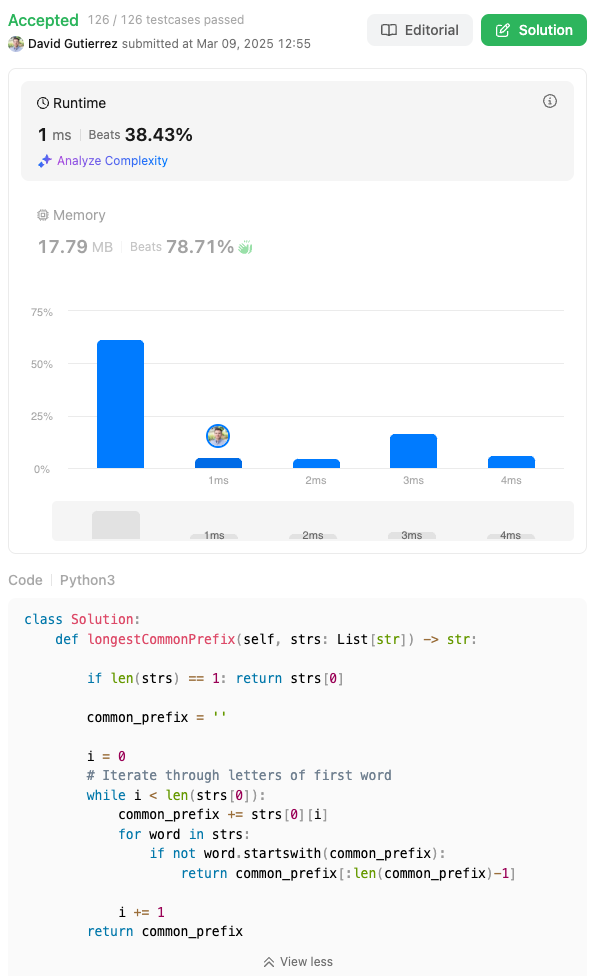
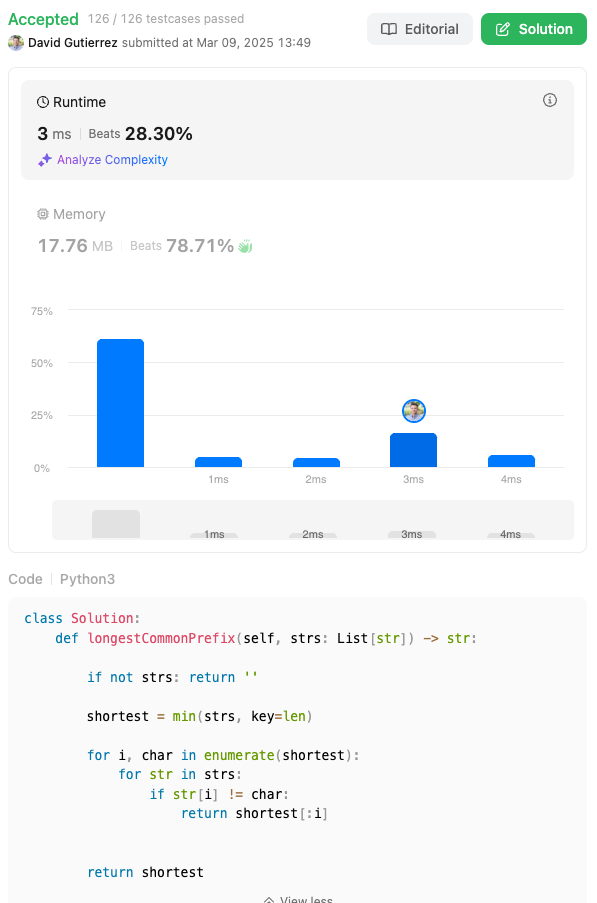
More elegant solution (worse runtime ha)

diff --git a/14. Longest Common Prefix/solution.py b/14. Longest Common Prefix/solution.py
@@ -1,21 +1,17 @@
 class Solution:
     def longestCommonPrefix(self, strs: List[str]) -> str:
         
-        if len(strs) == 1: return strs[0]
+        if not strs: return ''
 
-        common_prefix = ''
+        shortest = min(strs, key=len)
 
-        i = 0 
-        
-        # Iterate through letters of first word 
-        while i < len(strs[0]):
-            common_prefix += strs[0][i]
-            for word in strs:
-                if not word.startswith(common_prefix):
-                    return common_prefix[:len(common_prefix)-1]
+        for i, char in enumerate(shortest):
+            for str in strs: 
+                if str[i] != char:
+                    return shortest[:i]
 
-            i += 1
-        return common_prefix
+
+        return shortest
 
 # Time complexity: O(n*m) where n is the number of words and m is the length of the shortest word
-# Space complexity: O(m) where m is the length of the shortest word
+# Space complexity: O(1) since we are not using any extra space (previous version was actually (O(m*2) due to string concatenation)
